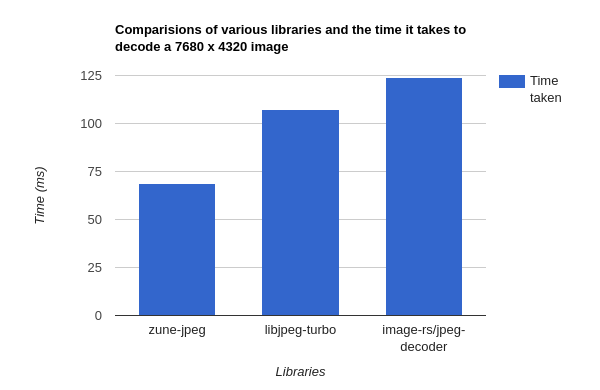
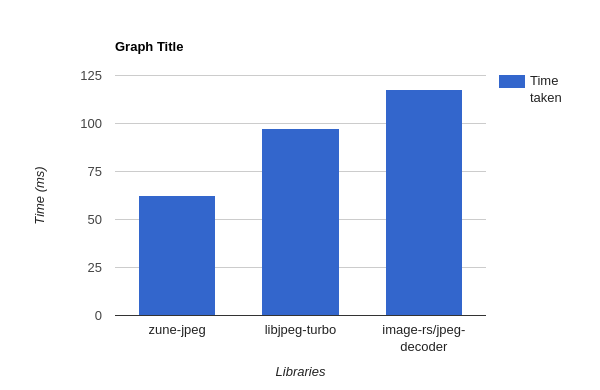
Benchmark updates

diff --git a/src/color_convert.rs b/src/color_convert.rs
@@ -101,18 +101,16 @@ pub fn choose_ycbcr_to_rgb_convert_func(
                     Some((ycbcr_to_rgba_sse_16, ycbcr_to_rgba_sse))
                 }
 
-                //ColorSpace::GRAYSCALE => Some((ycbcr_to_grayscale_16_sse, ycbcr_to_grayscale_8)),
                 _ => None,
             };
         }
     }
 
-    // when there is no x86 or we haven't returned by here, resort to lookup tables
+    // when there is no x86 or we haven't returned by here, resort to scalar
     return match type_need
     {
         ColorSpace::RGB => Some((scalar::ycbcr_to_rgb_16_scalar, scalar::ycbcr_to_rgb_scalar)),
-        ColorSpace::RGBA | ColorSpace::RGBX => Some((
-            scalar::ycbcr_to_rgba_16_scalar,
+        ColorSpace::RGBA | ColorSpace::RGBX => Some((scalar::ycbcr_to_rgba_16_scalar,
             scalar::ycbcr_to_rgba_scalar,
         )),
         _ => None,

diff --git a/src/color_convert/scalar.rs b/src/color_convert/scalar.rs
@@ -107,8 +107,7 @@ pub fn ycbcr_to_rgba_16_scalar(
 {
     let (_, output_position) = output.split_at_mut(*pos);
 
-    // Convert into a slice with 32 elements for Rust to FINALLY SEE WE WON'T GO OUT
-    // OF BOUNDS
+    // Convert into a slice with 64 elements for Rust to see we won't go out of bounds.
     let opt: &mut [u8; 64] = output_position
         .get_mut(0..64)
         .expect("Slice to small cannot write")

diff --git a/Benches.md b/Benches.md
@@ -1,93 +1,137 @@
 # Benchmarks of popular jpeg libraries
 
-
 Here I compare how long it takes popular JPEG decoders to decode the below 7680*4320 image
 of [Cutefish OS](https://en.cutefishos.com/) default wallpaper.
 ![img](benches/images/speed_bench.jpg)
-Currently due to this library's limitation, I can't add other sub-sampled and progressive images benchmarks, but
-I will add them when I implement them.
+Currently due to this library's limitation, I can't add other sub-sampled and progressive images benchmarks, but I will
+add them when I implement them.
 
 ## About benchmarks
-Benchmarks are weird, especially IO  & multi-threaded programs.
-This library uses both of the above hence performance may vary.
 
-For best results shut down your machine, go take coffee, think about life and 
-how it came to be and why people should save the environment.
+Benchmarks are weird, especially IO & multi-threaded programs. This library uses both of the above hence performance may
+vary.
 
-Then power up your machine, if it's a laptop connect it to a power supply and 
-if there is a setting for performance mode, tweak it. 
+For best results shut down your machine, go take coffee, think about life and how it came to be and why people should
+save the environment.
+
+Then power up your machine, if it's a laptop connect it to a power supply and if there is a setting for performance
+mode, tweak it.
 
 Then run.
 
 ## Benchmarks vs real world usage
+
 The library may be fast, okay it is fast.
 
 But real world usage may vary.
 
-Notice that I'm using a large image but probably most
-decoding will be small to medium images.
+Notice that I'm using a large image but probably most decoding will be small to medium images.
 
-Because the library is multi-threaded. We may end up being
-slower than competition due to mutex locks and every other thing
-that happens with multi-threaded code so please take these benchmarks as a grain of sand.
+To make the library thread safe, we do about 1.5-1.7x more allocations than libjpeg-turbo. Although, do note that the
+allocations do not occur at ago, we allocate when needed and deallocate when not needed.
 
-I just use them to show if I can improve some parts.
-
+Do note if memory bandwidth is a limitation. This is not for you.
 
 ## Reproducibility
+
 The benchmarks are carried out on my local machine with an AMD Ryzen 5 4500u
 
-The benchmarks are reproducible. 
+The benchmarks are reproducible.
 
 To reproduce them
+
 1. Clone this repository
 2. Install rust(if you don't have it yet)
-3. `cd` into the directory. 
+3. `cd` into the directory.
 4. Run `cargo bench`
 
-# Finally benchmarks
+## Performance features of the three libraries
 
-## 1. RGB
+|feature|image-rs/jpeg-decoder|libjpeg-turbo|zune-jpeg|
+|-------|---------------------|-------------|---------|
+|multithreaded|  ✅|❌|✅|
+|platform specific intrinsics|❌|✅|✅|
+
+
+- Image-rs/jpeg-decoder uses [rayon] under the hood but it's under a feature
+ flag.
+
+- libjpeg-turbo uses hand-written asm for platform specific intrinsics, ported to
+the most common architectures out there.
+
+# Finally benchmarks
 
 ### 1 * 1 (No upsampling) Baseline RGB Decoding
 
 |Decoder | Link | Speed|
 |--------|-------|-----|
 |**zune-jpeg**|- | 60.246 ms |
-|libjpeg-turbo| [github-link]|98.343 ms|
-|image-rs| [link] |123.350 ms |
+|[libjpeg-turbo]| [github-link]|98.343 ms|
+|[jpeg-decoder]| [link] |123.350 ms |
 
+63% faster than libjpeg-turbo.
 
-Yaay almost twice as fast as `image-rs/decoders` and 40% faster than `libjpeg-turbo`
+105% faster than image-rs/jpeg-decoder.
 
 ## Grayscale
+
 ### 1*1 Baseline grayscale decoding.
 
 |Decoder | Link | Speed|
 |--------|-------|-----|
-|**zune-jpeg**|- | 39.598 ms |
-|libjpeg-turbo| [github-link]|45.648 ms|
- 
-Not much improvement on my side, but libjpeg-turbo made some quantum leaps 50% improvement...
+|**zune-jpeg**|- | 45.598 ms |
+|libjpeg-turbo| [github-link]|46.648 ms|
 
 Image-rs/jpeg-decoder does not support YCbCr->Grayscale decoding, hence it wasn't included in the benchmark
 
-
 ## Horizontal Sub-sampling
 
-|Decoder | Link | Speed|
-|--------|-------|-----|
-|**zune-jpeg**|- | 69.246 ms |
-|libjpeg-turbo| [github-link]|85.343 ms|
-|image-rs| [link] |124.350 ms |
+|Decoder |Speed|
+|--------|-----|
+|**zune-jpeg**| 50.246 ms |
+|[libjpeg-turbo]|85.343 ms|
+|[jpeg-decoder]|118.350 ms |
 
-23% faster than libjpeg-turbo.
+70% faster than libjpeg-turbo.
 
-79% faster than image-rs.
+136% faster than image-rs.
 
+Image-rs remained almost the same compared to RGB no upsampling here.
+
+## Vertical Sub-sampling
+
+|Decoder |Speed|
+|--------|-----|
+|**zune-jpeg**| 50.175 ms |
+|[libjpeg-turbo]|130.343 ms|
+|[jpeg-decoder]|115.350 ms |
+
+160% faster than libjpeg-turbo.
+
+134% faster than image-rs.
+
+Image-rs remained almost the same compared to RGB no upsampling here.
+
+## Horizontal Vertical Sub-sampling
+
+This is probably the most common for low to medium quality images out there
+
+
+|Decoder |Speed|
+|--------|-----|
+|**zune-jpeg**| 52.175 ms |
+|[libjpeg-turbo]|78.343 ms|
+|[jpeg-decoder]|118.350 ms |
+
+50% faster than libjpeg-turbo.
+
+126% faster than image-rs.
 
 Image-rs remained almost the same compared to RGB no upsampling here.
 
 
-[github-link]:https://github.com/libjpeg-turbo/libjpeg-turbo
-[link]:https://github.com/image-rs/jpeg-decoder
+[jpeg-decoder]:https://github.com/libjpeg-turbo/libjpeg-turbo
+
+[libjpeg-turbo]:https://github.com/image-rs/jpeg-decoder
+
+[rayon]:https://github.com/rayon-rs/rayon
